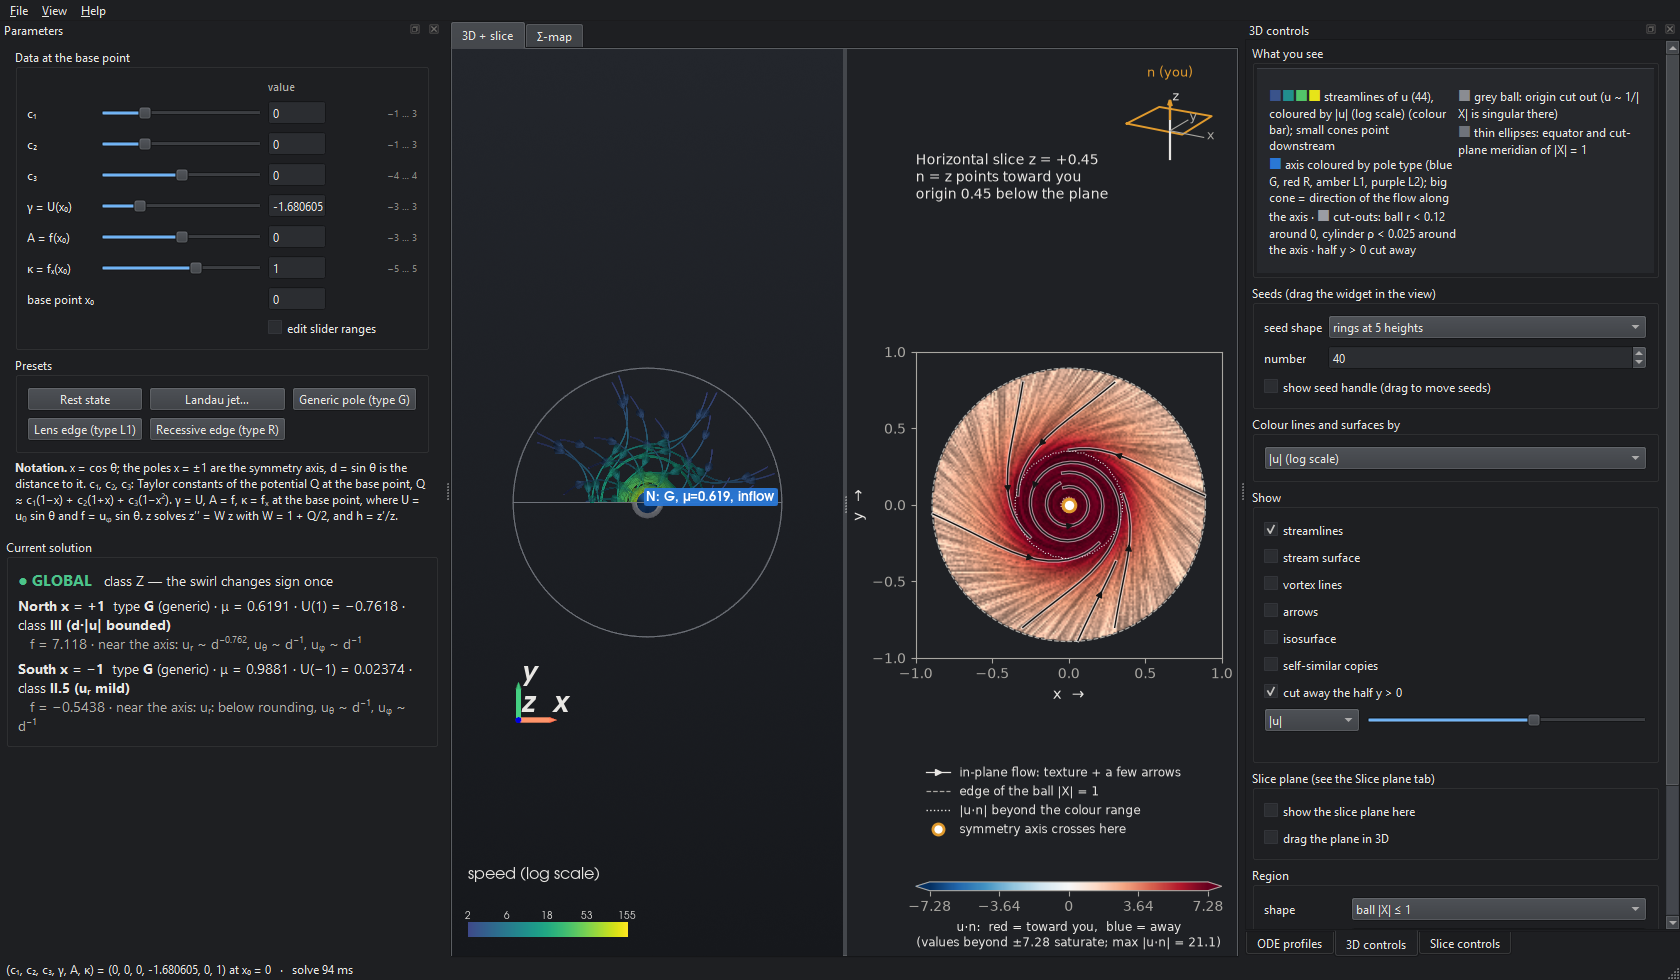
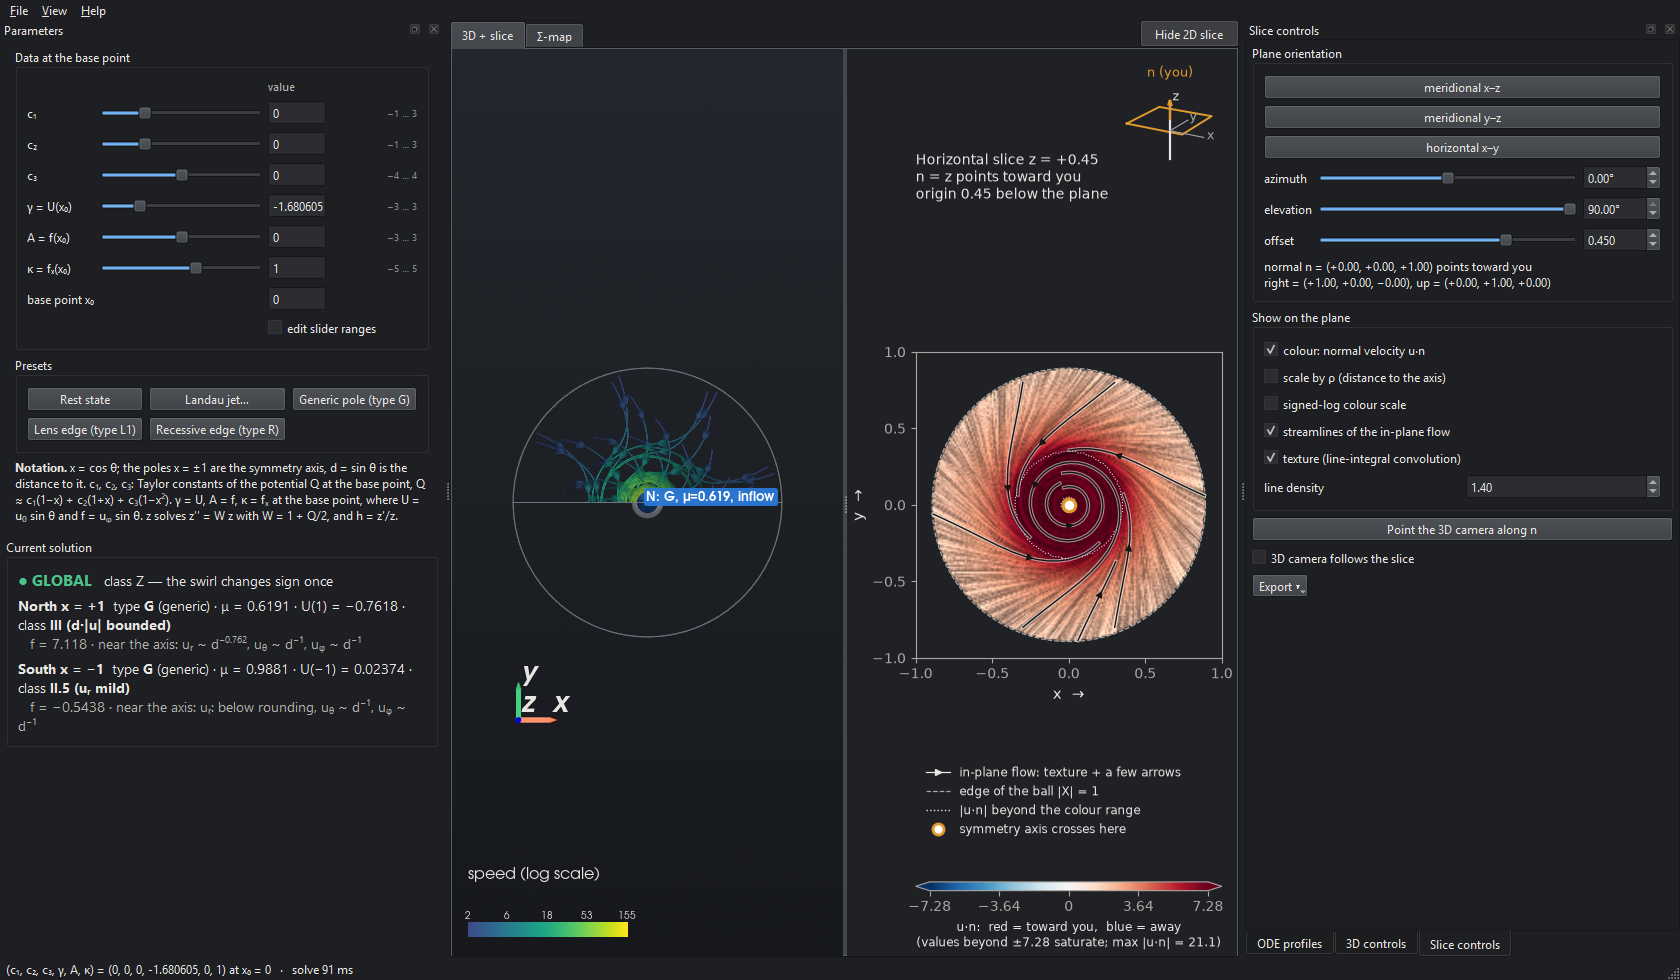
2D slice pane hidden by default; Show/Hide 2D slice button at the top right of the view tabs

diff --git a/swirl_explorer/ui/main_window.py b/swirl_explorer/ui/main_window.py
@@ -106,10 +106,18 @@ class MainWindow(QMainWindow):
         q.triggered.connect(self.close)
         m.addAction(q)
         vm = self.menuBar().addMenu("&View")
-        self.act_slice = QAction("Slice plane beside the 3D view", self, checkable=True, checked=True)
-        self.act_slice.toggled.connect(self.slice.setVisible)
-        self.act_slice.toggled.connect(self.dock_slice.setVisible)
+        # the 2D slice pane is hidden until the user asks for it (button at the top right of the view tabs)
+        self.act_slice = QAction("Show 2D slice", self, checkable=True, checked=False)
+        self.act_slice.setToolTip("show the 2D slice plane beside the 3D view, with its controls")
+        self.act_slice.toggled.connect(self._show_slice)
         vm.addAction(self.act_slice)
+        from PySide6.QtWidgets import QToolButton
+        self.slice_btn = QToolButton()
+        self.slice_btn.setDefaultAction(self.act_slice)
+        self.slice_btn.setToolButtonStyle(Qt.ToolButtonTextOnly)
+        self.slice_btn.setStyleSheet("QToolButton{padding:3px 10px;}")
+        self.tabs.setCornerWidget(self.slice_btn, Qt.TopRightCorner)
+        self._show_slice(False)
         for d in self._docks:
             vm.addAction(d.toggleViewAction())
         vm.addSeparator()
@@ -155,6 +163,14 @@ class MainWindow(QMainWindow):
             p, sol, sm = self.last
             self.status.show_summary(sm, 0.0)
 
+    def _show_slice(self, on: bool) -> None:
+        self.slice.setVisible(on)
+        self.dock_slice.setVisible(on)
+        self.act_slice.setText("Hide 2D slice" if on else "Show 2D slice")
+        if on:
+            self.split.setSizes([10000, 10000])         # 3D and slice equally wide
+            self.dock_slice.raise_()
+
     def _about(self):
         QMessageBox.information(
             self, "Conventions",
@@ -170,7 +186,7 @@ class MainWindow(QMainWindow):
             from PySide6.QtCore import QTimer
             QTimer.singleShot(0, lambda: self.resizeDocks([self._docks[0], self._docks[1]], [330, 360],
                                                           Qt.Horizontal))
-            QTimer.singleShot(50, lambda: self.split.setSizes([10000, 10000]))   # 3D and slice equally wide
+            QTimer.singleShot(50, lambda: self._show_slice(self.act_slice.isChecked()))
             self._docks_sized = True
 
     def closeEvent(self, ev):

diff --git a/tests/test_ui_smoke.py b/tests/test_ui_smoke.py
@@ -65,6 +65,13 @@ def test_main_window_solves_and_updates(app, tmp_path):
     w.show()
     assert _wait(app, lambda: w.last is not None)
     assert "GLOBAL" in w.status.head.text() and "type" in w.status.north.text()
+    # the 2D slice is hidden until the button is pressed
+    app.processEvents()
+    assert not w.slice.isVisible() and not w.dock_slice.isVisible()
+    w.slice_btn.click()
+    assert w.slice.isVisible() and w.dock_slice.isVisible() and w.act_slice.text() == "Hide 2D slice"
+    w.slice_btn.click()
+    assert not w.slice.isVisible()
     # a non-global choice updates the status with the blow-up point
     w.params.set_params(Params(gamma=5.0))
     assert _wait(app, lambda: w.last is not None and w.last[0].gamma == 5.0)

diff --git a/scripts/stress_3d.py b/scripts/stress_3d.py
@@ -14,6 +14,7 @@ from swirl_explorer.ui.main_window import MainWindow
 from swirl_explorer.ui.theme import apply_theme
 app = QApplication(sys.argv); apply_theme(app)
 w = MainWindow(); w.resize(1500, 900); w.show(); v = w.view3d
+w.act_slice.setChecked(False); w.act_slice.setChecked(True)   # toggle the hidden-by-default 2D slice
 def settle(t=0.6):
     e = time.time()
     while time.time() - e < t:

diff --git a/scripts/m4_screenshots.py b/scripts/m4_screenshots.py
@@ -16,6 +16,7 @@ sys.excepthook = lambda t, v, tb: (ERRORS.append(v), _hook(t, v, tb))
 app = QApplication(sys.argv)
 apply_theme(app)
 w = MainWindow()
+w.act_slice.setChecked(True)          # the 2D slice is hidden by default
 w.resize(1680, 980)
 w.move(20, 20)
 w.show()
